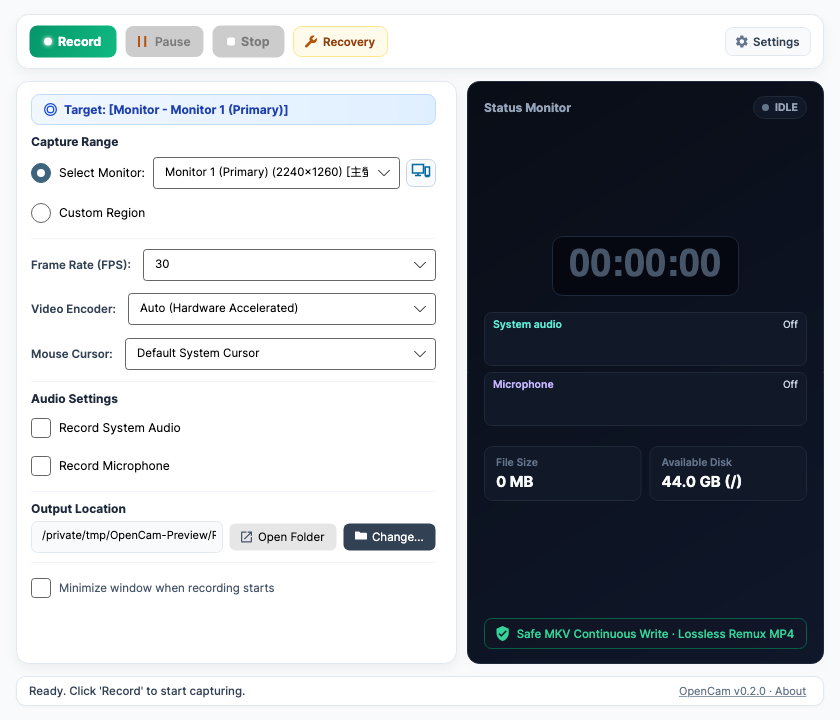
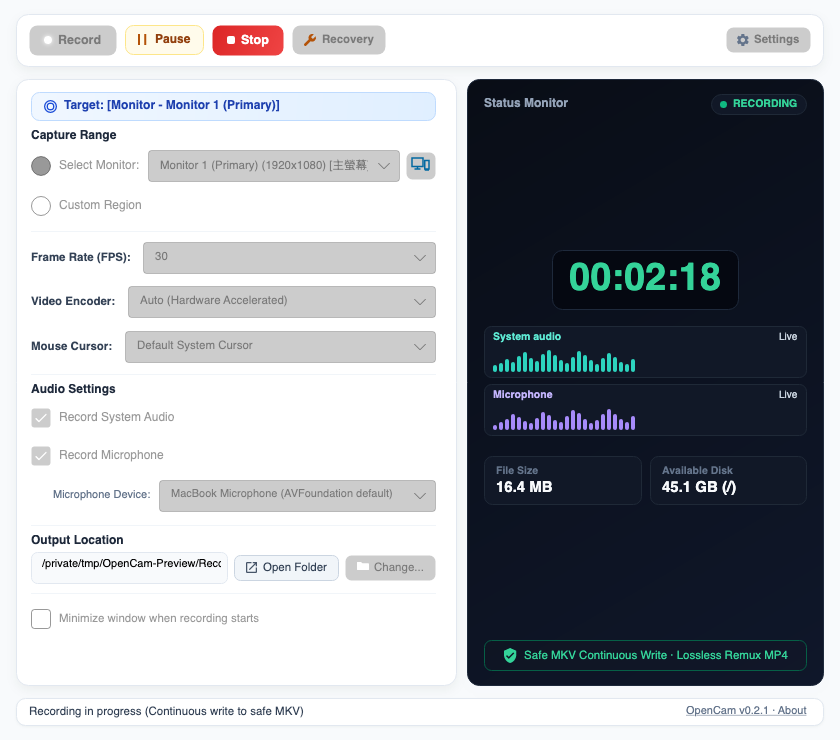
docs: refresh recording waveform screenshots

diff --git a/src/ScreenRecorder.UI/ViewModels/MainViewModel.cs b/src/ScreenRecorder.UI/ViewModels/MainViewModel.cs
@@ -1578,6 +1578,36 @@ public partial class MainViewModel : ObservableObject
                 ? AudioMeterState.Paused : AudioMeterState.Off, 0, 0)));
     }
 
+    internal void SetDocumentationRecordingAudioActivity()
+    {
+        if (!_forScreenshot)
+        {
+            return;
+        }
+
+        RecordSystemAudio = true;
+        RecordMicrophone = true;
+        double[] systemLevels =
+        [
+            0.18, 0.27, 0.42, 0.31, 0.56, 0.72, 0.48, 0.36,
+            0.64, 0.82, 0.59, 0.41, 0.29, 0.52, 0.76, 0.61,
+            0.38, 0.24, 0.46, 0.69, 0.54, 0.33, 0.21, 0.44
+        ];
+        double[] microphoneLevels =
+        [
+            0.12, 0.21, 0.35, 0.58, 0.43, 0.28, 0.17, 0.39,
+            0.66, 0.51, 0.32, 0.23, 0.47, 0.73, 0.62, 0.37,
+            0.19, 0.31, 0.55, 0.78, 0.57, 0.34, 0.25, 0.49
+        ];
+
+        for (var i = 0; i < systemLevels.Length; i++)
+        {
+            ApplyAudioLevels(new AudioLevelsSnapshot(
+                new AudioSourceLevel(AudioMeterState.Live, systemLevels[i], systemLevels[i]),
+                new AudioSourceLevel(AudioMeterState.Live, microphoneLevels[i], microphoneLevels[i])));
+        }
+    }
+
     private void ApplyAudioLevels(AudioLevelsSnapshot snapshot)
     {
         _systemMeterState = snapshot.SystemAudio.State;

diff --git a/tests/ScreenRecorder.Media.Tests/FoolproofUiLogicTests.cs b/tests/ScreenRecorder.Media.Tests/FoolproofUiLogicTests.cs
@@ -34,6 +34,22 @@ public class FoolproofUiLogicTests
     }
 
     [Fact]
+    public void DocumentationRecordingScreenshot_ShowsActiveAudioWaveforms()
+    {
+        var vm = new MainViewModel(forScreenshot: true);
+
+        vm.SetDocumentationRecordingAudioActivity();
+
+        Assert.True(vm.RecordSystemAudio);
+        Assert.True(vm.RecordMicrophone);
+        Assert.Contains(vm.SystemWaveformBars, bar => bar.Height > 0);
+        Assert.Contains(vm.MicrophoneWaveformBars, bar => bar.Height > 0);
+        Assert.Equal("收音中", vm.SystemAudioMeterStateText);
+        Assert.Equal("收音中", vm.MicrophoneMeterStateText);
+        vm.Cleanup();
+    }
+
+    [Fact]
     public void UnconfirmedStartup_AllowsStopButBlocksCloseAndSettings()
     {
         var vm = new MainViewModel { IsPreparing = true };

diff --git a/src/ScreenRecorder.UI/App.axaml.cs b/src/ScreenRecorder.UI/App.axaml.cs
@@ -95,6 +95,7 @@ public partial class App : Application
                     {
                         viewModel.IsRecording = true;
                         viewModel.IsPaused = false;
+                        viewModel.SetDocumentationRecordingAudioActivity();
                         viewModel.ElapsedTimeText = "00:02:18";
                         viewModel.FileSizeText = "16.4 MB";
                         viewModel.StatusMessage = ScreenRecorder.UI.Localization.LanguageManager.Instance["StatusRecordingActive"];

diff --git a/README.md b/README.md
@@ -16,11 +16,11 @@ OpenCam 是一款以可靠性為優先的跨平台桌面螢幕錄影工具。錄
 
 目前版本為 **0.2.1**，採用 **AGPL-3.0-or-later**。Windows 與 Apple Silicon macOS 安裝包請至 [v0.2.1 Release](https://github.com/kaoshou/OpenCam/releases/tag/v0.2.1) 下載；先前版本仍依當時的授權條款提供。
 
-v0.2.1 更新了 Windows、macOS 與網站共用的扁平式圖示，並在網站導覽列加入 GitHub 專案連結。下方截圖仍是 v0.2.0 時擷取的介面畫面，並非 v0.2.1 安裝檔截圖。
+v0.2.1 更新了 Windows、macOS 與網站共用的扁平式圖示，並在網站導覽列加入 GitHub 專案連結。下方主畫面顯示錄影中的收音狀態與獨立波形；偏好設定仍保留 v0.2.0 的實際畫面。
 
-以下為 **0.2.0** 在 macOS 上的實際畫面。點選圖片可檢視原尺寸，避免縮小後看不清選項文字。
+主畫面由 **0.2.1** 正式 UI 離線渲染，波形使用收音狀態展示資料；點選圖片可檢視原尺寸，避免縮小後看不清選項文字。
 
-[![OpenCam 0.2.0 macOS 主畫面](docs/images/preview_main_zhtw.png)](docs/images/preview_main_zhtw.png)
+[![OpenCam 0.2.1 macOS 錄影中與收音波形](docs/images/preview_main_zhtw.png)](docs/images/preview_main_zhtw.png)
 [![OpenCam 0.2.0 macOS 偏好設定](docs/images/preview_settings_zhtw.png)](docs/images/preview_settings_zhtw.png)
 
 ## v0.2.0 重點更新
@@ -123,11 +123,11 @@ OpenCam is built with .NET 8, Avalonia UI, and FFmpeg, and supports Windows and 
 
 The current version is **0.2.1**, licensed under **AGPL-3.0-or-later**. Download the Windows and Apple Silicon macOS packages from the [v0.2.1 Release](https://github.com/kaoshou/OpenCam/releases/tag/v0.2.1). Earlier releases retain their original license terms.
 
-v0.2.1 updates the shared flat icon on Windows, macOS, and the website, and adds a GitHub project link to the site navigation. The screenshots below were captured from v0.2.0, not the v0.2.1 installer.
+v0.2.1 updates the shared flat icon on Windows, macOS, and the website, and adds a GitHub project link to the site navigation. The main screenshot now shows recording-time audio status and separate waveforms; the preferences image remains an actual v0.2.0 capture.
 
-These are actual screenshots of **0.2.0** on macOS. Select an image to view it at full size so the interface text stays legible.
+The main screen is rendered from the **0.2.1** production UI with illustrative audio-level data. Select an image to view it at full size so the interface text stays legible.
 
-[![OpenCam 0.2.0 macOS main window](docs/images/preview_main_enus.png)](docs/images/preview_main_enus.png)
+[![OpenCam 0.2.1 macOS recording screen with audio waveforms](docs/images/preview_main_enus.png)](docs/images/preview_main_enus.png)
 [![OpenCam 0.2.0 macOS preferences](docs/images/preview_settings_enus.png)](docs/images/preview_settings_enus.png)
 
 ## What's New in v0.2.0
